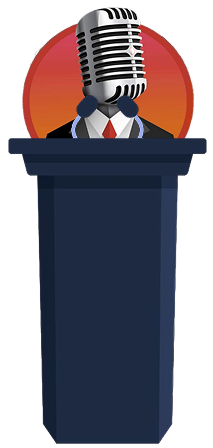
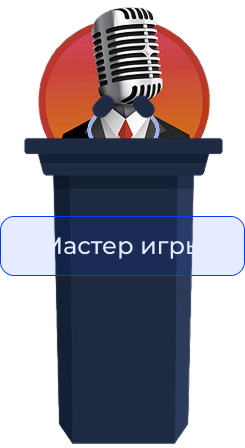
changed host-image

diff --git a/src/widgets/host/ui/host-widget.tsx b/src/widgets/host/ui/host-widget.tsx
@@ -28,8 +28,8 @@ export function HostWidget({ seconds }: { seconds?: number }) {
       <Image
         className="relative bottom-2"
         src="/host-image.png"
-        width={213}
-        height={359}
+        width={245}
+        height={448}
         alt="Ведущий"
         loading="eager"
       />
